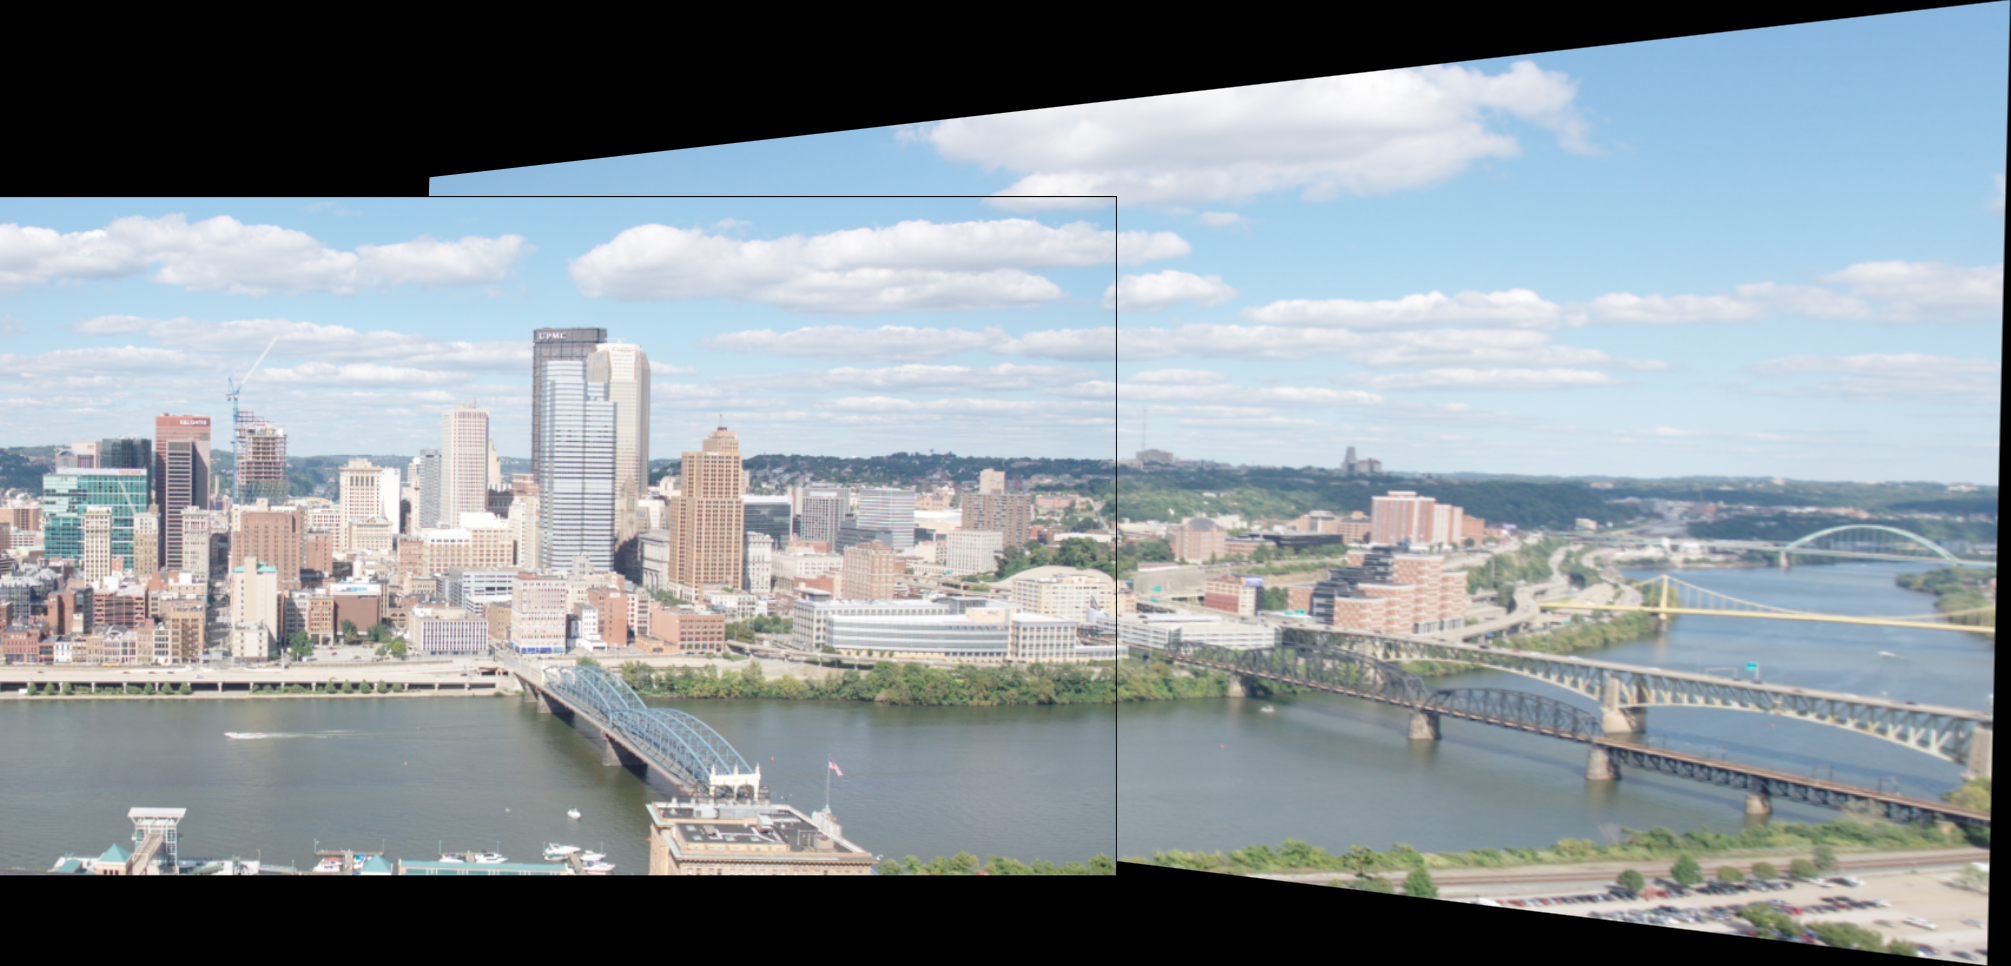
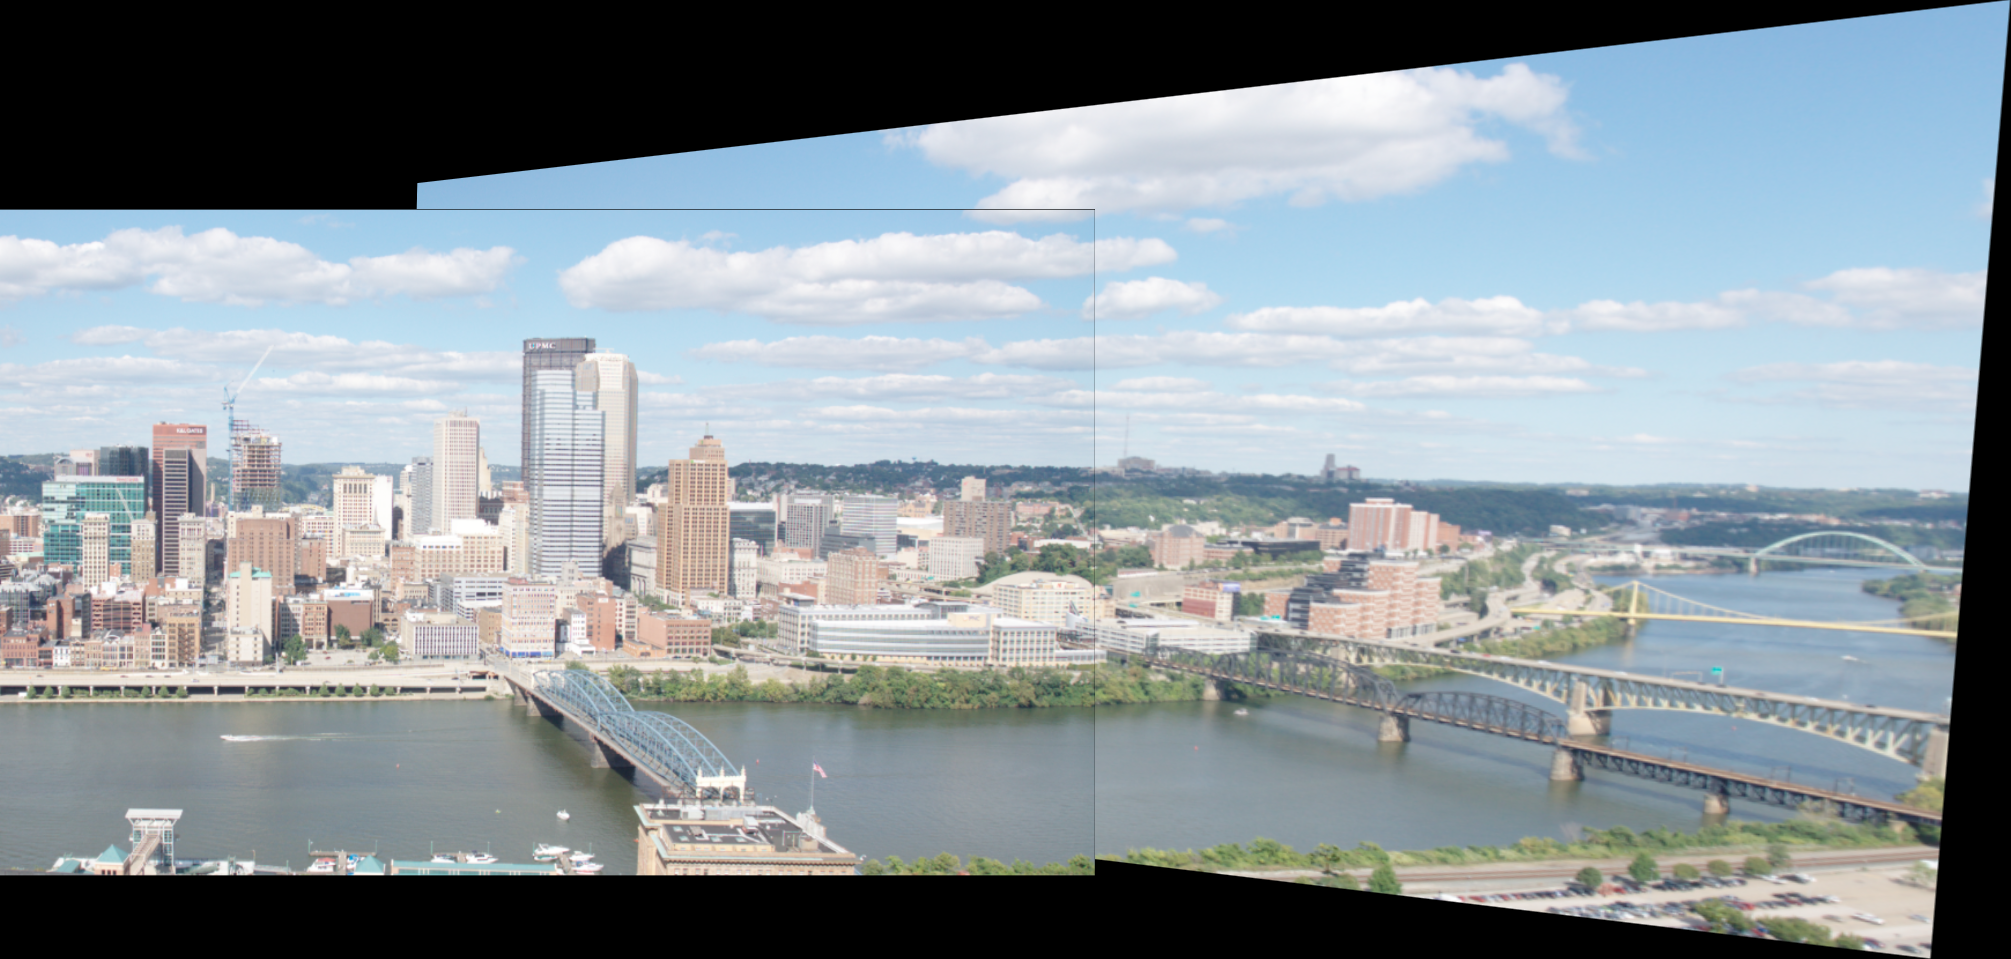
update hw2

diff --git a/hw2/code/panoramas.py b/hw2/code/panoramas.py
@@ -1,9 +1,26 @@
+from matplotlib.pyplot import axis
 import cv2
 import numpy as np
 from scipy.ndimage.morphology import distance_transform_edt
 from planarH import ransacH
 from BRIEF import briefLite,briefMatch,plotMatches
-import matplotlib.pyplot as plt
+
+def homogeneous_transform(point, H):
+    '''
+    INPUT
+        point - Nx2,
+        H - 3x3
+    OUTPUT 
+        t_point - Nx2
+    '''
+    h_point = np.concatenate([point, np.ones((point.shape[0], 1))], axis=-1)
+    transformed_h_point = np.matmul(H, h_point.T).T # in shape Nx3
+    transformed_point = (transformed_h_point/np.expand_dims(transformed_h_point[:, -1], axis=-1))[:, :2]
+    return transformed_point
+
+
+    
+
 
 def imageStitching(im1, im2, H2to1):
     '''
@@ -22,27 +39,21 @@ def imageStitching(im1, im2, H2to1):
 
     out_width = im1.shape[1] + im2.shape[1]
 
-    im1_corners = np.array([[0,0],[im1.shape[1], 0],[0, im1.shape[0]],[im1.shape[1], im1.shape[0]]])
-    im2_corners = np.array([[0, im2.shape[1], 0, im2.shape[1]],[0, 0, im2.shape[0], im2.shape[0]],[1,1,1,1]])
-    new_im2_corners = np.matmul(H2to1, im2_corners)
-    new_im2_corners = (new_im2_corners/new_im2_corners[-1])[:2].T
+    im1_corners = np.array([[0,0],[im1.shape[1],0],[0, im1.shape[0]],[im1.shape[1], im1.shape[0]]]) # 4x2
+    im2_corners = np.array([[0,0],[im2.shape[1],0],[0, im2.shape[0]],[im2.shape[1], im2.shape[0]]]) # 4x2
+    new_im2_corners = homogeneous_transform(im2_corners, H2to1)
 
-    corners = np.array(list(im1_corners) + list(new_im2_corners))
-
+    corners = np.concatenate([im1_corners, new_im2_corners], axis=0)
 
     top_left = np.amin(corners, axis=0)
     bottom_right = np.amax(corners, axis=0)
-    width = bottom_right[0] - top_left[0]
-    height = bottom_right[1] - top_left[1]
+    width, height = list(bottom_right - top_left)
     aspect_ratio = height/width
-
     out_height = int(out_width*aspect_ratio)
 
     t = np.array([[1,0,-top_left[0]],[0,1,-top_left[1]],[0,0,1]], dtype=np.float64)
     s = np.array([[out_width/width,0,0],[0,out_height/height,0],[0,0,1]], dtype=np.float64)
     M = np.matmul(s, t)
-
-
 
     wrap_im1 = cv2.warpPerspective(im1, M, (out_width, out_height))
     wrap_im2 = cv2.warpPerspective(im2, np.matmul(M, H2to1), (out_width, out_height))
@@ -50,6 +61,17 @@ def imageStitching(im1, im2, H2to1):
     pano_im = np.where(wrap_im1!=0, wrap_im1, wrap_im2)
 
     # crop
+    residue_im = pano_im - wrap_im1
+    t_im1_corners = homogeneous_transform(im1_corners, M)
+    t_im2_corners = homogeneous_transform(im2_corners, np.matmul(M, H2to1))
+
+    residue_im2_left = np.argwhere(np.sum(distance_transform_edt(residue_im[:, int(t_im1_corners[1,0])+2]), axis=-1)!=0).flatten()
+    top_row_point = int(np.amax(np.array([t_im1_corners[1,1],t_im2_corners[1,1], np.amin(residue_im2_left)])))
+    bottom_row_point = int(np.amin(np.array([t_im1_corners[3,1],t_im2_corners[3,1],np.amax(residue_im2_left)])))
+
+    left_point = int(np.amin(t_im2_corners[[1,3],0]))
+
+    pano_im = pano_im[top_row_point:bottom_row_point, :left_point]
     
     return pano_im
 
@@ -70,7 +92,6 @@ def imageStitching_noClip(im1, im2, H2to1):
     new_im2_corners = (new_im2_corners/new_im2_corners[-1])[:2].T
 
     corners = np.array(list(im1_corners) + list(new_im2_corners))
-
 
     top_left = np.amin(corners, axis=0)
     bottom_right = np.amax(corners, axis=0)
@@ -96,11 +117,12 @@ def imageStitching_noClip(im1, im2, H2to1):
 if __name__ == '__main__':
     im1 = cv2.imread('../data/incline_L.png')
     im2 = cv2.imread('../data/incline_R.png')
-    print(im1.shape)
+
     locs1, desc1 = briefLite(im1)
     locs2, desc2 = briefLite(im2)
     matches = briefMatch(desc1, desc2)
-    plotMatches(im1,im2,matches,locs1,locs2)
+    # plotMatches(im1,im2,matches,locs1,locs2)
+
     H2to1 = ransacH(matches, locs1, locs2, num_iter=5000, tol=2)
     pano_im = imageStitching_noClip(im1, im2, H2to1)
     print(H2to1)
